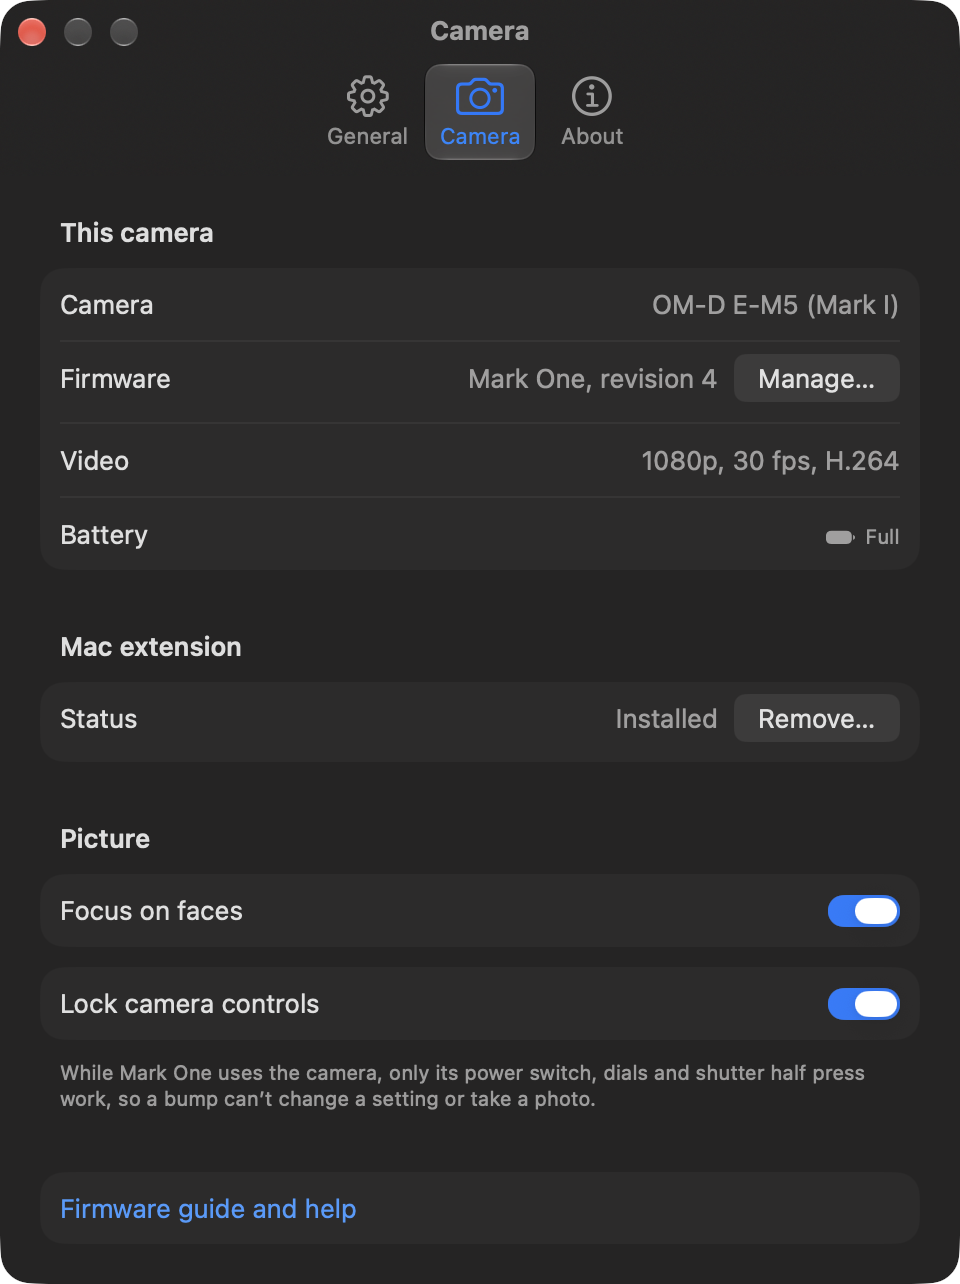
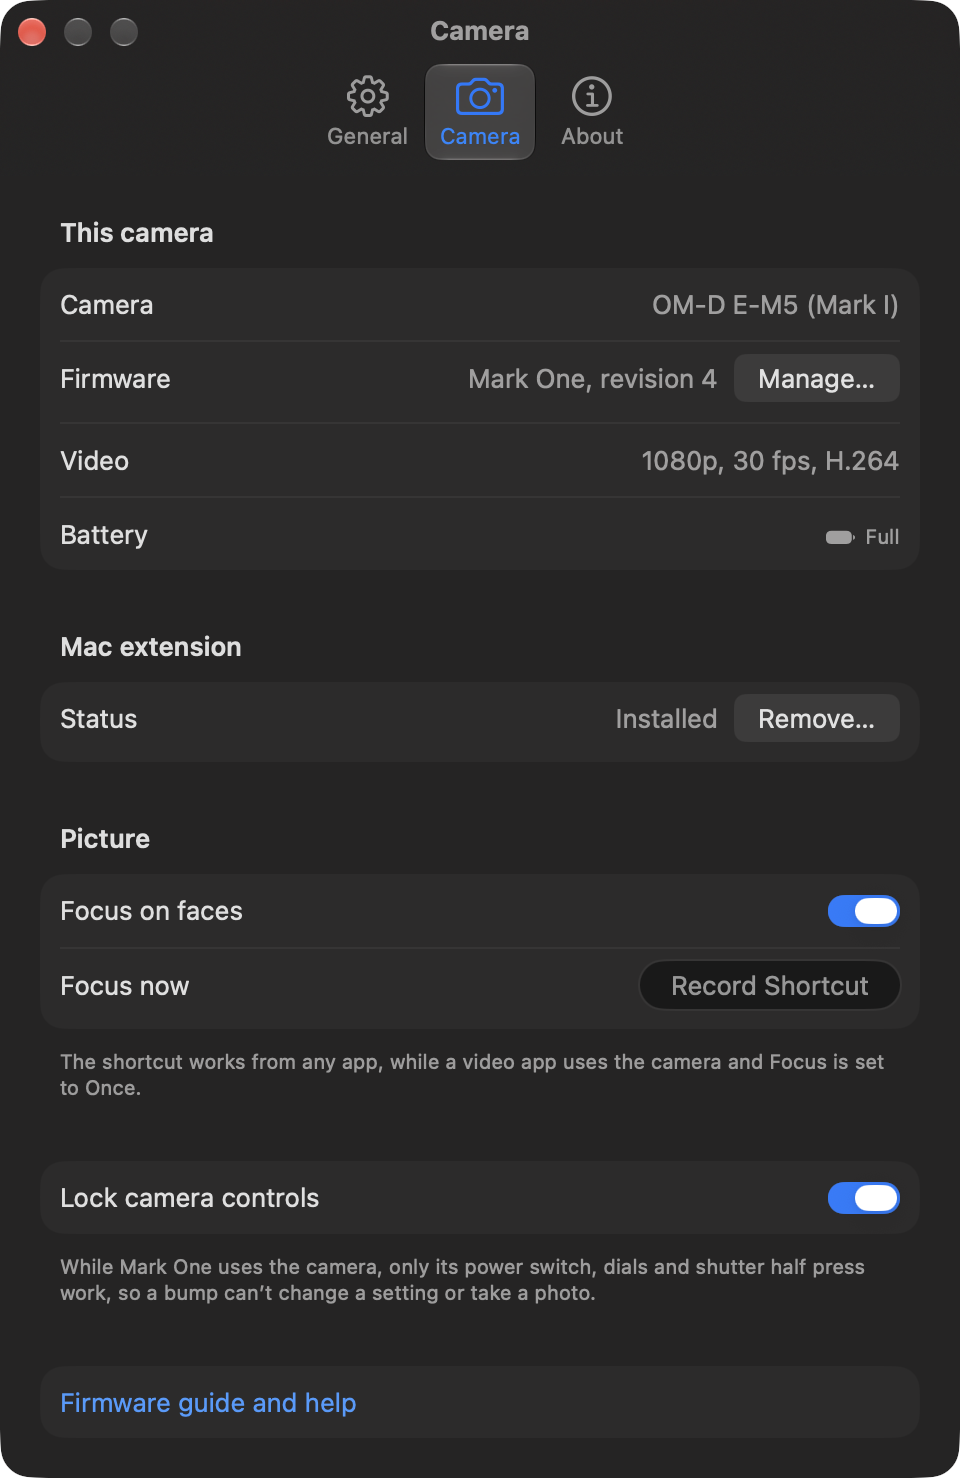
Mark One: A keyboard shortcut for Focus, set in Settings

diff --git a/mac/MarkOne/App/Views/SettingsView.swift b/mac/MarkOne/App/Views/SettingsView.swift
@@ -1,5 +1,6 @@
 // Mark One's Settings window.
 
+import KeyboardShortcuts
 import SwiftUI
 
 struct SettingsView: View {
@@ -122,8 +123,16 @@ private struct CameraSettings: View {
             }
             // Brightness, white balance, picture mode and autofocus are in
             // the menu bar panel.
-            Section("Picture") {
+            Section {
                 Toggle("Focus on faces", isOn: $pipeline.faceFocus)
+                KeyboardShortcuts.Recorder("Focus now", name: .focus)
+            } header: {
+                Text("Picture")
+            } footer: {
+                Text("The shortcut works from any app, while a video app uses the camera and Focus is set to Once.")
+                    .font(.caption)
+                    .foregroundStyle(.secondary)
+                    .fixedSize(horizontal: false, vertical: true)
             }
             Section {
                 Toggle("Lock camera controls", isOn: $pipeline.lockControls)

diff --git a/mac/MarkOne/App/Shortcuts.swift b/mac/MarkOne/App/Shortcuts.swift
@@ -1,0 +1,19 @@
+// Global keyboard shortcuts, set in Settings > Camera.
+
+import KeyboardShortcuts
+
+extension KeyboardShortcuts.Name {
+    /// Focuses the camera, like the panel's Focus button. No default, so it
+    /// can't clash with another app's shortcut until someone picks one.
+    static let focus = Self("focus")
+}
+
+@MainActor
+enum Shortcuts {
+    static func start(_ pipeline: Pipeline) {
+        KeyboardShortcuts.onKeyUp(for: .focus) { [weak pipeline] in
+            guard let pipeline, pipeline.canFocus else { return }
+            pipeline.focus()
+        }
+    }
+}

diff --git a/mac/MarkOne/App/Views/MenuView.swift b/mac/MarkOne/App/Views/MenuView.swift
@@ -259,7 +259,7 @@ struct MenuView: View {
                                     ProgressView().controlSize(.mini).opacity(pipeline.focusing ? 1 : 0)
                                 }
                             }
-                            .disabled(!live || pipeline.focusing || pipeline.continuousFocus)
+                            .disabled(!pipeline.canFocus)
                             .help("Focus now")
                             .accessibilityLabel(pipeline.focusing ? "Focusing" : "Focus now")
                         }

diff --git a/mac/MarkOne/App/Pipeline.swift b/mac/MarkOne/App/Pipeline.swift
@@ -136,6 +136,10 @@ final class Pipeline: ObservableObject {
     /// Set while the overlay waits for the next picture to clear it.
     private let clearBusyOnFrame = Flag()
 
+    /// Whether Focus does anything now: only while recording, with
+    /// autofocus set to Once, and not while it's already focusing.
+    var canFocus: Bool { state == .streaming && !focusing && !continuousFocus }
+
     /// Focuses the camera, as a half press of its shutter button does.
     func focus() {
         focusing = true

diff --git a/mac/MarkOne/App/MarkOneApp.swift b/mac/MarkOne/App/MarkOneApp.swift
@@ -50,6 +50,7 @@ final class AppDelegate: NSObject, NSApplicationDelegate {
             if Snapshots.taking { return }
             #endif
             Preferences.shared.start(Pipeline.shared)
+            Shortcuts.start(Pipeline.shared)
             Updater.shared.start()
             // The first time, the welcome window installs the extension and
             // starts looking for the camera at the steps that explain the

diff --git a/README.md b/README.md
@@ -159,6 +159,7 @@ Mark One's code, patches and notes are under the [MIT license](LICENSE). Some pi
 
 - FFmpeg's libavcodec and libavutil, which `scripts/build-libavcodec.sh` builds and the app ships as separate libraries, are under the LGPL 2.1 (`mac/MarkOne/Vendor/ffmpeg/COPYING.LGPLv2.1`).
 - [Sparkle](https://github.com/sparkle-project/Sparkle), for updates, is under the MIT license.
+- [KeyboardShortcuts](https://github.com/sindresorhus/KeyboardShortcuts), for the Focus shortcut, is under the MIT license.
 - `olyfw.py` comes from [xulfr/om-emu](https://github.com/xulfr/om-emu), which has no license, so it isn't copied here: `scripts/setup.sh` downloads it.
 - Olympus's firmware isn't part of this repo or the app, and stays under OM Digital Solutions' own license.
 
